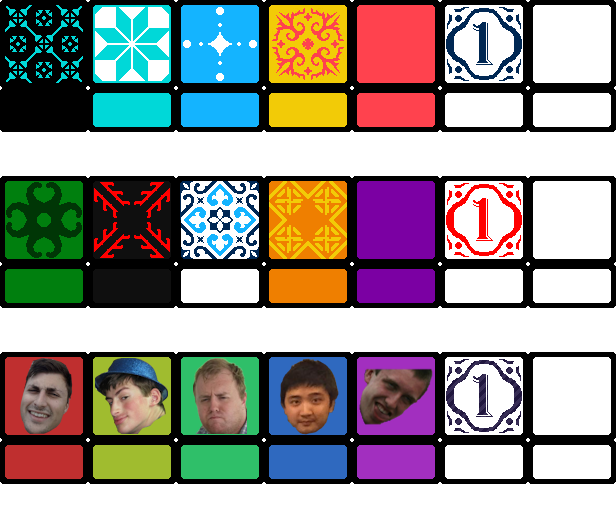
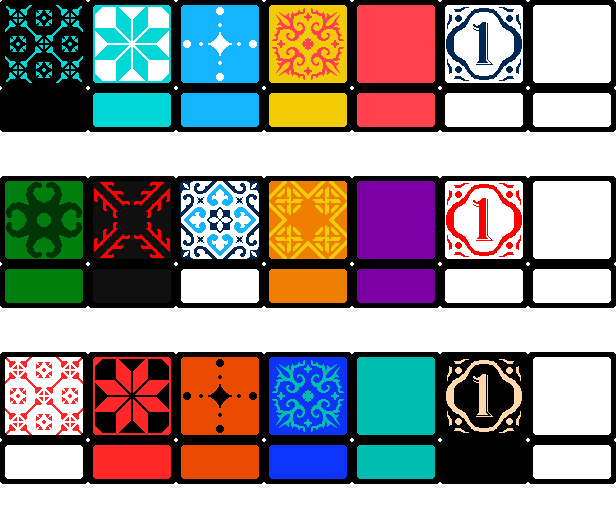
change tile set 3 to inversion of tile set 1, prevent score from ever dropping below 0

Changed region(s): [[0.0, 0.6667, 0.8636, 0.9091]]

diff --git a/game.js b/game.js
@@ -816,6 +816,9 @@ function Player(client, replayPlayerDetails) {
 			 	this.game.moveTile(tile, 'middle');
 			}
 		}
+		if (this.score < 0) {
+			this.score = 0;
+		}
 		ret.startsNext = this.startsNext;
 		this.startsNext = false;
 		return ret;
